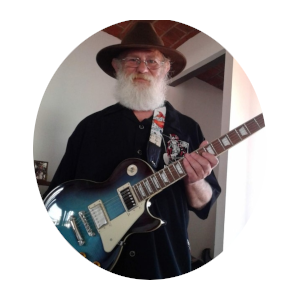
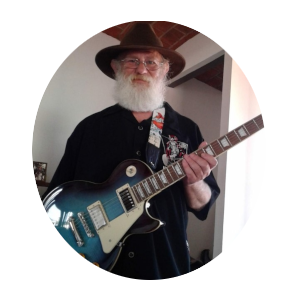
added color background

diff --git a/index.html b/index.html
@@ -6,7 +6,8 @@
     <meta name="viewport" content="width=device-width, initial-scale=1.0" />
     <title>☣Richard's Personal Site☣</title>
   </head>
-  <body>
+  
+  <body style="background-color: #F6EEDF;">
     <table cellspacing = 20>
       <tr>
         <td><img src = "images/rich2.png" alt="Too cool! Gotta go..."></td>
@@ -59,7 +60,7 @@
         <td>&#127774;&#127774;&#127774;&#127774;</td>
       </tr>
       <tr>
-        <td>HTML</td>
+        <td>HTML/CSS</td>
         <td>&#127774;&#127774;&#127774;</td>
       </tr>
       <tr>

diff --git a/contact.html b/contact.html
@@ -6,7 +6,7 @@
     <meta name="viewport" content="width=device-width, initial-scale=1.0">
     <title>Contact Me</title>
 </head>
-<body>
+<body style="background-color: #F6EEDF;">
     <h1>Contact Details</h1>
     <p><em>email:</em> richard.trump57@cmail.com</p>
     <p><em>phone:</em> 332-554-6578</p>

diff --git a/hobbies.html b/hobbies.html
@@ -6,7 +6,7 @@
     <meta name="viewport" content="width=device-width, initial-scale=1.0">
     <title>My Hobbies</title>
 </head>
-<body>
+<body style="background-color: #F6EEDF;">
     <h3>My Hobbies</h3>
     <ol>
       <li><a href="https://github.com/Eldritch-HPL/Study-Timer">Python</a></li>
